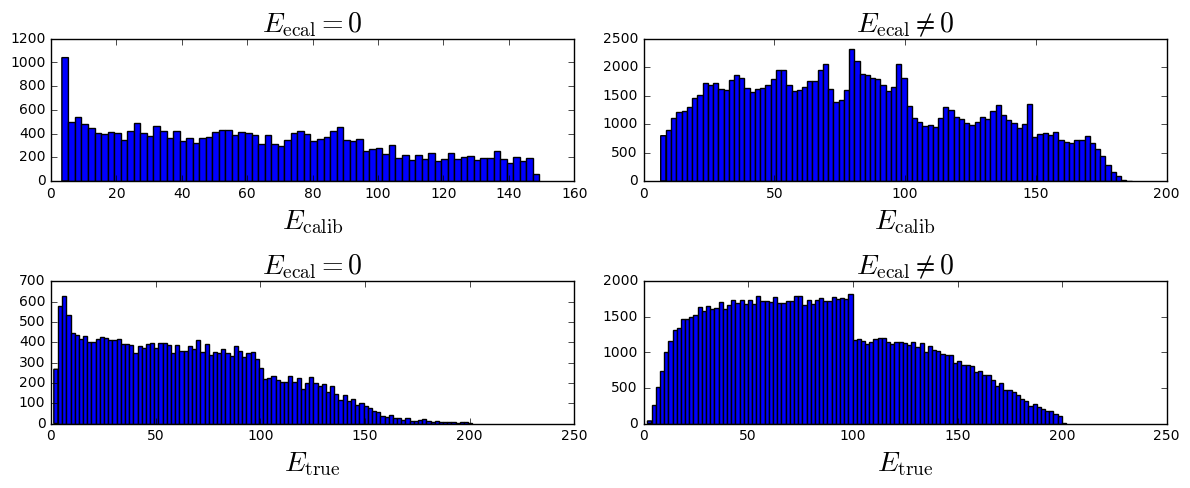
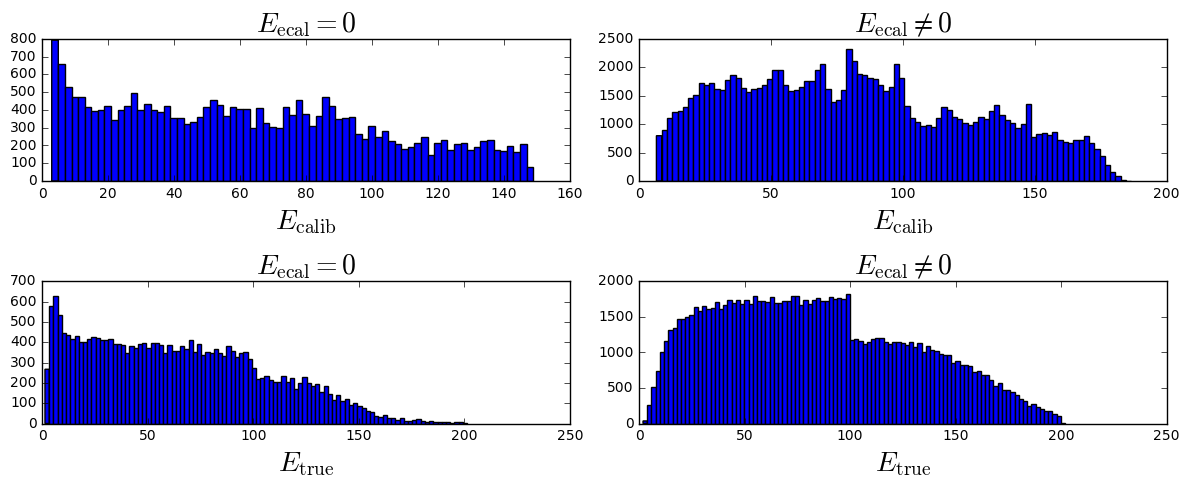
modifications for KNNGF

diff --git a/pfcalibration/KNNGaussianFit.py b/pfcalibration/KNNGaussianFit.py
@@ -250,7 +250,7 @@ class KNNGaussianFit(Calibration):
             dist, ind = self.neigh_ecal_eq_0.kneighbors(X = h)
             dist = dist[0]
             ind = ind[0]
-            dlim = h-self.hcal_train_ecal_eq_0_min + 0.1
+            dlim = np.abs(h-self.hcal_train_ecal_eq_0_min) + 0.1
             ind = ind[dist <= dlim]
             true = z[ind]
             hcal = y[ind]
@@ -305,7 +305,11 @@ class KNNGaussianFit(Calibration):
 
         #we define the first point of evaluation
         dist, ind = self.neigh_ecal_eq_0.kneighbors(X = 0)
-        hcal = y[ind][0]
+        dist = dist[0]
+        ind = ind[0]
+        dlim = self.hcal_train_ecal_eq_0_min + 0.1
+        ind = ind[dist <= dlim]
+        hcal = y[ind]
         hcal_min = (max(hcal)+min(hcal))/2
         # we evaluate the true energies
         hcal = np.arange(hcal_min,self.lim+energystep_ecal_eq_0,energystep_ecal_eq_0)

diff --git a/test_KNNGF.py b/test_KNNGF.py
@@ -39,6 +39,7 @@ n_neighbors_ecal_eq_0=2000  # number of neighbors for ecal = 0
 n_neighbors_ecal_neq_0=250  # number of neighbors for ecal ≠ 0
 energystep_ecal_eq_0 = 1
 energystep_ecal_neq_0 = 5
+kind = 'cubic'
     
 try:
     # We import the calibration
@@ -48,7 +49,7 @@ except FileNotFoundError:
     # We create the calibration
     KNNGF = data1.KNNGaussianFit(n_neighbors_ecal_eq_0=n_neighbors_ecal_eq_0,
                                  n_neighbors_ecal_neq_0=n_neighbors_ecal_neq_0,
-                                 lim=lim,energystep_ecal_eq_0=energystep_ecal_eq_0,energystep_ecal_neq_0=energystep_ecal_neq_0,kind='cubic')
+                                 lim=lim,energystep_ecal_eq_0=energystep_ecal_eq_0,energystep_ecal_neq_0=energystep_ecal_neq_0,kind=kind)
     KNNGF.saveCalib()
     print(KNNGF)
     

diff --git a/comparison.py b/comparison.py
@@ -1,4 +1,4 @@
-#!/usr/bin/env python3
+C#!/usr/bin/env python3
 # -*- coding: utf-8 -*-
 """
 Developed by Samuel Niang
